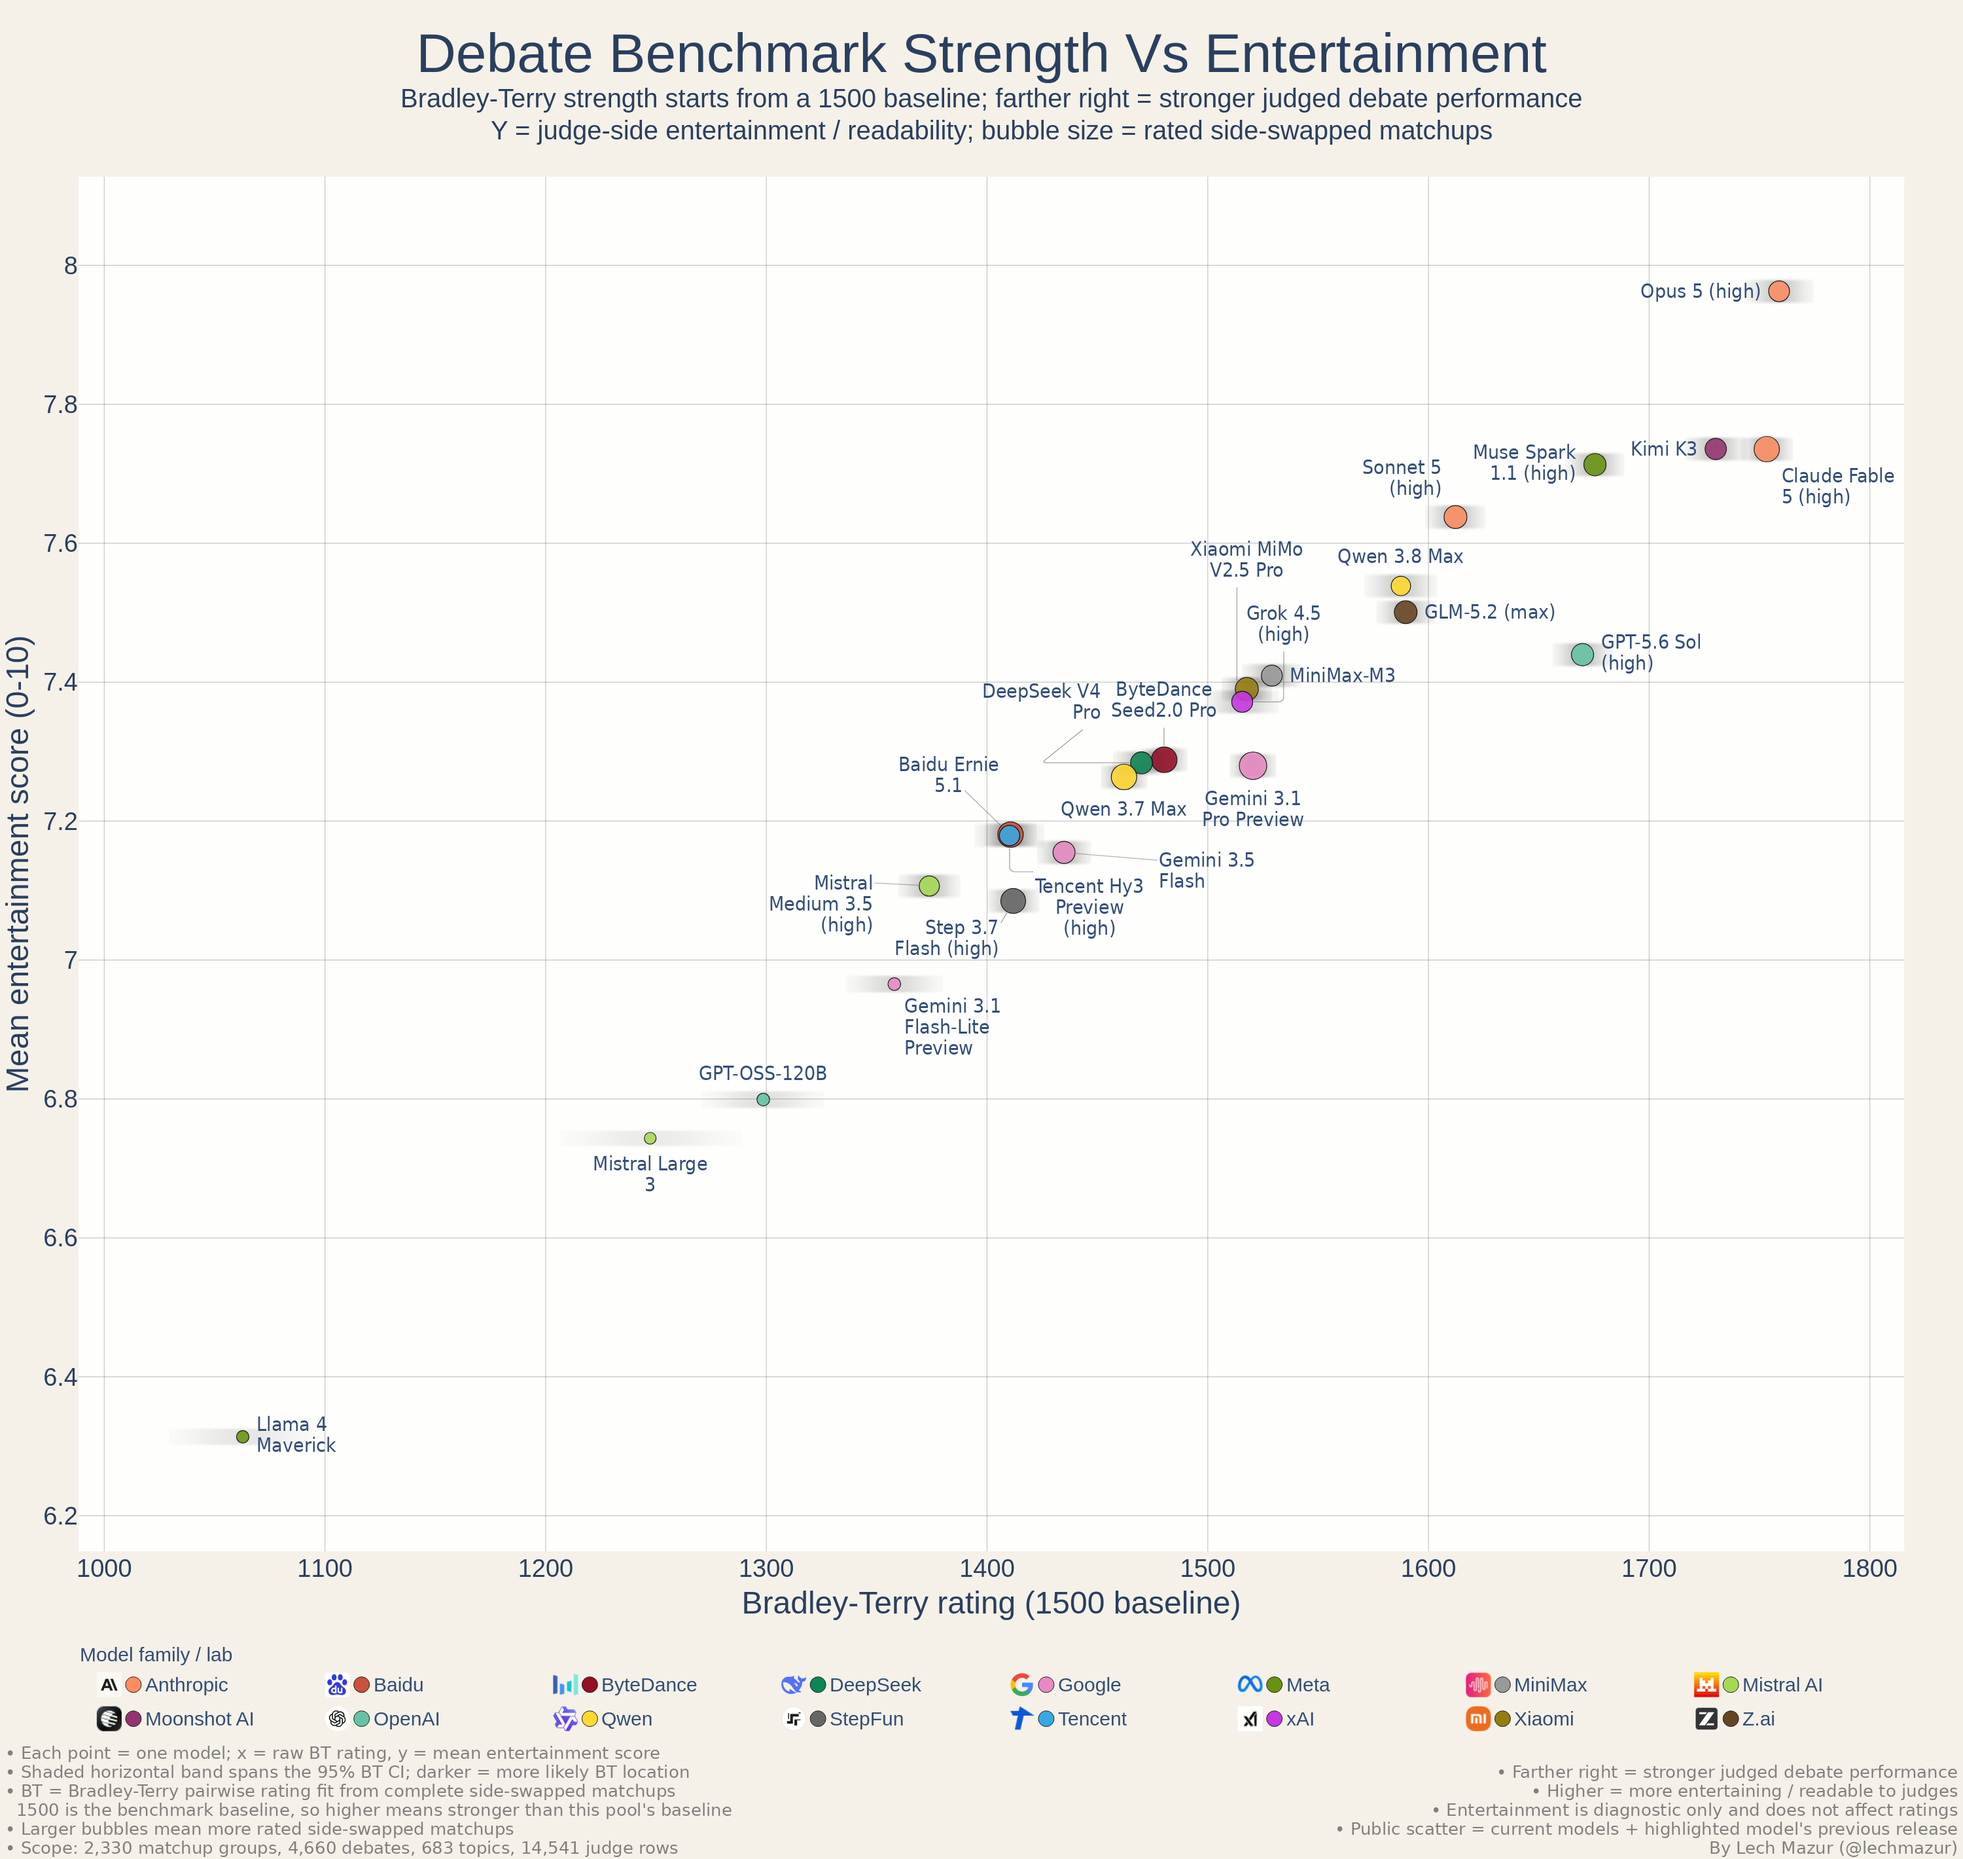
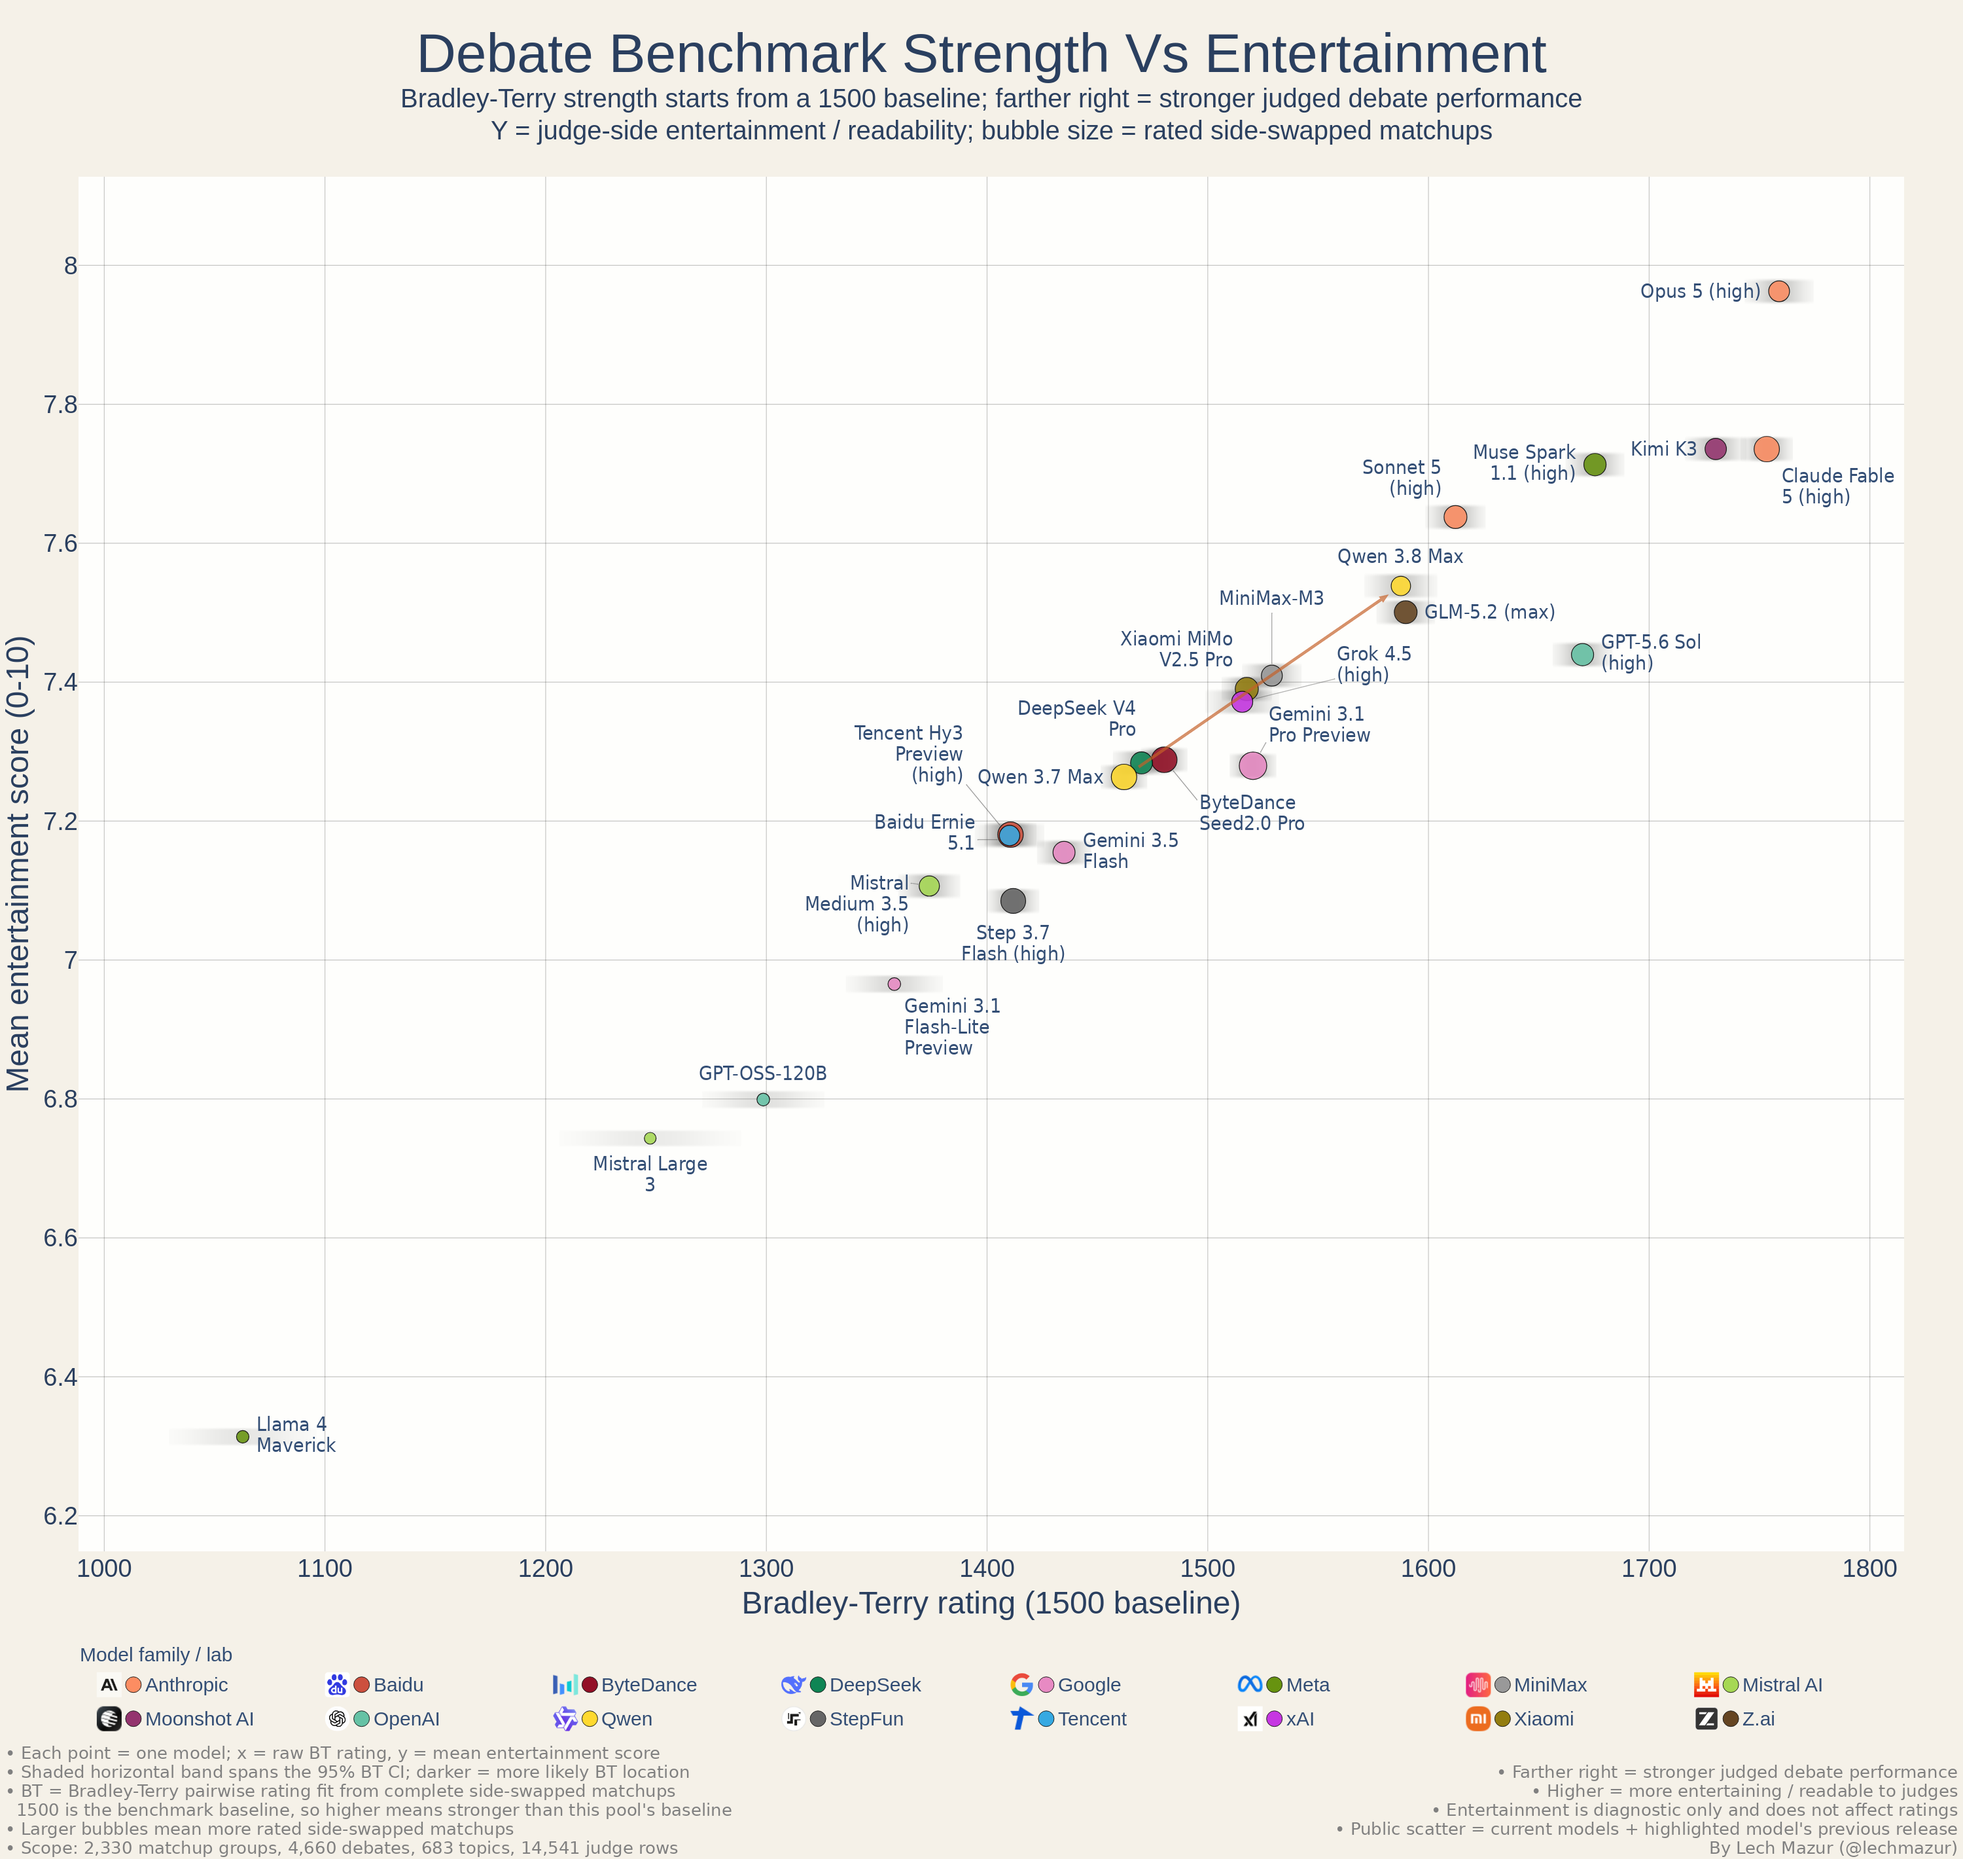
Publish Qwen predecessor arrows
Update the Qwen 3.8 pricing narrative and publish the refreshed price and entertainment scatters with Qwen 3.7 to Qwen 3.8 arrows.

Changed region(s): [[0.465, 0.2789, 0.713, 0.4648], [0.403, 0.4028, 0.651, 0.5268]]

diff --git a/README.md b/README.md
@@ -173,9 +173,9 @@ The current picture has an Opus-led top tier, with Claude Fable 5 and Kimi K3 cl
 
 The price chart reads the same Bradley-Terry strength signal against estimated debate cost. The x-axis is model-side USD per completed debate and excludes the cost of judging. When exact billing data is available, the chart uses it; otherwise it estimates cost from the debate text. Costs are shown only where USD estimates are available.
 
-![Price versus performance with the Qwen 3.8 Max cost limitation highlighted](images/debate_price_vs_performance__judge_judge_blend_20260804a__debate_placement_active_20260320f_highlighted.png)
+![Price versus performance with Qwen 3.8 Max highlighted and an arrow from Qwen 3.7](images/debate_price_vs_performance__judge_judge_blend_20260804a__debate_placement_active_20260320f_highlighted.png)
 
-Higher and further left is better on this view. The chart omits vertical rating-uncertainty bands for readability. This release refreshed costs across 46,823 stored debater turns: 45 of 46 stored rated models have usable USD estimates. The current-focused chart shows 23 costed points—22 current models plus Qwen 3.7, the immediate predecessor of the sole highlighted model. Qwen 3.8 matched 967 router records, but neither shared pricing metadata nor those logs provide a usable USD price, so its point and the Qwen 3.7 → Qwen 3.8 arrow are explicitly marked unavailable rather than estimated through an implicit CNY conversion. Other historical predecessor points remain in stored results but are omitted from public scatters. Among the top three, Opus 5 averages about $0.161 per completed debate, Kimi K3 about $0.254, and Claude Fable 5 about $0.288.
+Higher and further left is better on this view. The chart omits vertical rating-uncertainty bands for readability. This release refreshed costs across 46,823 stored debater turns, and all 46 stored rated models now have usable USD estimates. The current-focused chart shows 24 costed points—23 current models plus Qwen 3.7, the immediate predecessor of the sole highlighted model. Qwen 3.8 matched and costed 967 of 970 router turns, producing a partial-exact estimate of about $0.143 per completed debate. Qwen 3.7 averages about $0.099, so Qwen 3.8 is roughly 45% more expensive by this measure; the chart draws the Qwen 3.7 → Qwen 3.8 arrow directly. Other historical predecessor points remain in stored results but are omitted from public scatters. Among the top three, Opus 5 averages about $0.161 per completed debate, Kimi K3 about $0.254, and Claude Fable 5 about $0.288.
 
 ---
 
@@ -256,7 +256,7 @@ For the broader model table and example matchups behind this view, see the [curr
 
 ![Strength versus entertainment](images/debate_strength_vs_entertainment__judge_judge_blend_20260804a__debate_placement_active_20260320f.png)
 
-In the scatter, the x-axis is Bradley-Terry rating, the y-axis is mean entertainment/readability score, bubble size is rated matchup coverage, and grey horizontal bands show rating uncertainty density across each model's 95% interval. Qwen 3.7 is the only non-current model retained because it is the immediate predecessor of highlighted Qwen 3.8.
+In the scatter, the x-axis is Bradley-Terry rating, the y-axis is mean entertainment/readability score, bubble size is rated matchup coverage, and grey horizontal bands show rating uncertainty density across each model's 95% interval. Qwen 3.7 is the only non-current model retained because it is the immediate predecessor of highlighted Qwen 3.8, and the arrow connects that previous release to the current one.
 
 Read against the main strength rating, this view separates three cases that a single leaderboard hides: models that are strong and lively, models that are strong but comparatively dry, and models that are readable or vivid without being top-tier debaters. Entertainment still stays diagnostic only; it does not feed the rating.
 
@@ -564,7 +564,7 @@ Read the [qualitative comparison report](reports/qualitative_model_comparisons__
 
 ## Updates
 
-- `2026-08-04`: Added Qwen 3.8 Max, refreshed the public benchmark, and moved the sole chart highlight to Qwen 3.8.
+- `2026-08-04`: Added Qwen 3.8 Max, refreshed the public benchmark, moved the sole chart highlight to Qwen 3.8, and added Qwen 3.7 → Qwen 3.8 arrows to eligible scatters.
 - `2026-07-24`: Added Claude Opus 5 (high).
 - `2026-07-17`: Added Kimi K3.
 - `2026-07-13`: Added MiniMax-M3, Claude Sonnet 5 (high), Grok 4.5 (high), GPT-5.6 Sol (high), and Muse Spark 1.1 (high).
